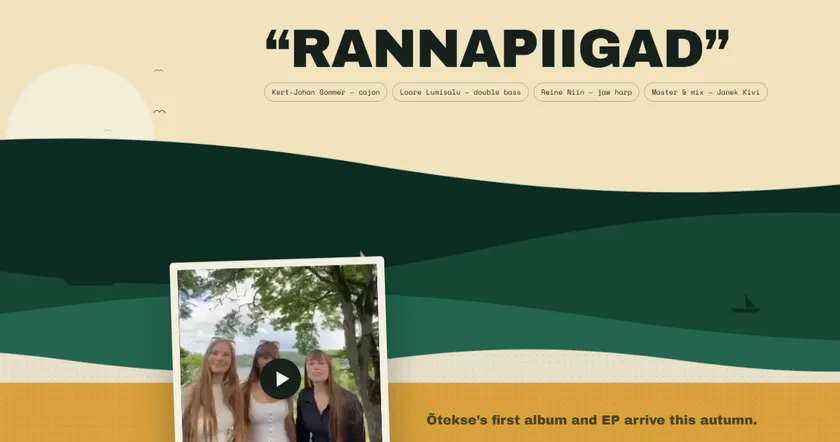
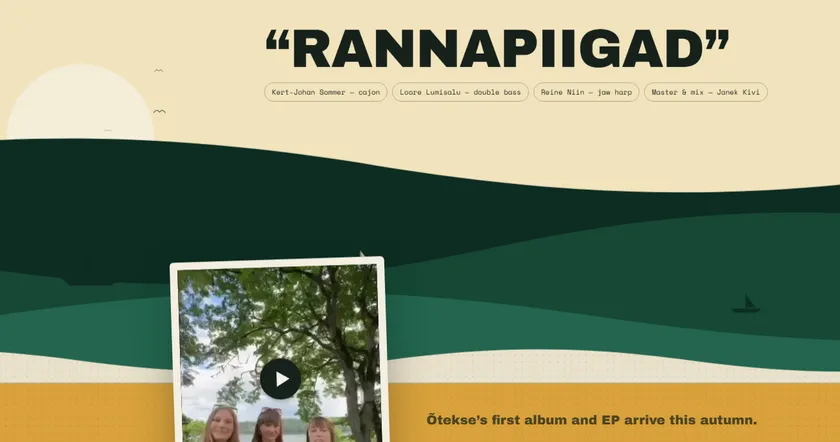
Make the About page just the timeline, and frame the video lower
About: the introduction section is gone from /about, which now shows only the
timeline. Its "AJATELG" title becomes the page's h1 and each year an h2.
AboutSection is homepage-only now, so its unused page mode is removed.

Video: the picture sits 40% of the card's height below the card's bottom edge
(was 10%), so of what does not fit about 18% of the card's height is cut at
the top and 40% at the bottom. The header card's stills are retaken.

diff --git a/src/components/about/TimelineSection.tsx b/src/components/about/TimelineSection.tsx
@@ -11,9 +11,12 @@ import styles from "./TimelineSection.module.scss";
 // pills, and the photos as tilted paper prints. Every year is open — nothing
 // collapses.
 //
+// It is the whole About page (the owner dropped the introduction that used to
+// sit above it), so its title is the page's h1 and each year an h2.
+//
 // Where it departs from the export:
-//  - The export is a whole About page. Only its timeline is used here; the
-//    band's introduction is AboutSection, directly above.
+//  - The export's header also carries an introduction and the line-up; the
+//    page shows only the timeline.
 //  - Its "LIIKUMINE" switcher is a design-review control for trying three
 //    scroll animations. The page ships the default, "Tõus", in TimelineRise.
 //  - The photos are the band's real ones — all of them, where the export
@@ -30,14 +33,14 @@ export function TimelineSection() {
     <section id="ajatelg" className={styles.section}>
       <div className={styles.head}>
         <div className={styles.overline}>— {t("overline")}</div>
-        <h2 className={styles.title}>{t("timelineTitle")}</h2>
+        <h1 className={styles.title}>{t("timelineTitle")}</h1>
       </div>
 
       <TimelineRise className={styles.years}>
         {timeline.map(({ year, entries }) => (
           <div key={year} className={styles.year}>
             <div className={styles.yearLabel}>
-              <h3 className={styles.yearNumber}>{year}</h3>
+              <h2 className={styles.yearNumber}>{year}</h2>
               <div className={styles.yearCount}>
                 {t("timelineCount", { count: entries.length })}
               </div>

diff --git a/src/components/home/AlbumVideo.module.scss b/src/components/home/AlbumVideo.module.scss
@@ -11,14 +11,14 @@
 // The whole 16:9 file, at the size where an upright clip's footage (the middle
 // 303.75 of its 960 px, 31.64%) spans the frame's width: 316.05% of the frame's
 // width, and 16:9 of that, which is 158.03% of an 8:9 frame's height. Centred
-// sideways and set 10% of the frame's height below its bottom edge (the
-// owner's framing), so of the 58% that does not fit, about 48% is cut off at
-// the top and 10% at the bottom (see AlbumVideo). `max-width: none` undoes the
+// sideways and set 40% of the frame's height below its bottom edge (the
+// owner's framing), so of the 58% that does not fit, about 18% is cut off at
+// the top and 40% at the bottom (see AlbumVideo). `max-width: none` undoes the
 // reset's 100% cap.
 .video {
   position: absolute;
   left: 50%;
-  bottom: -10%;
+  bottom: -40%;
   display: block;
   width: 316.05%;
   height: 158.03%;

diff --git a/src/components/home/AlbumVideo.tsx b/src/components/home/AlbumVideo.tsx
@@ -13,9 +13,9 @@ import styles from "./AlbumVideo.module.scss";
 // The frame is 8:9. The file is 16:9 and mixes upright phone clips, whose
 // black bars are baked into the picture, with wide landscape shots. At the
 // owner's call there are no bars: the video is drawn at the size where an
-// upright clip's own footage spans the frame's width, centred, and set a tenth
-// of the frame's height below its bottom edge, so most of what does not fit is
-// cut off at the top and a little at the bottom. Wide clips show their middle
+// upright clip's own footage spans the frame's width, centred, and set 40% of
+// the frame's height below its bottom edge, so of what does not fit a little
+// is cut off at the top and most at the bottom. Wide clips show their middle
 // third.
 //
 // That video box is about three times wider than the frame, so the browser's

diff --git a/src/components/home/AboutSection.tsx b/src/components/home/AboutSection.tsx
@@ -8,22 +8,19 @@ import styles from "./AboutSection.module.scss";
 
 type AboutSectionProps = {
   showMoreLink?: boolean;
-  asPage?: boolean;
 };
 
 export function AboutSection({
   showMoreLink = false,
-  asPage = false,
 }: AboutSectionProps) {
   const t = useTranslations("About");
-  const Title = asPage ? "h1" : "h2";
 
   return (
     <section id="meist" className={styles.section}>
       <div className={styles.inner}>
         <div className={styles.copy}>
           <div className={styles.overline}>— {t("overline")}</div>
-          <Title className={styles.title}>{t("title")}</Title>
+          <h2 className={styles.title}>{t("title")}</h2>
 
           {/* The first is open so the section never reads as empty. */}
           <DisclosureGroup>

diff --git a/src/app/[locale]/about/page.tsx b/src/app/[locale]/about/page.tsx
@@ -1,7 +1,6 @@
 import type { Metadata } from "next";
 import { notFound } from "next/navigation";
 import { getTranslations, setRequestLocale } from "next-intl/server";
-import { AboutSection } from "@/components/home/AboutSection";
 import { TimelineSection } from "@/components/about/TimelineSection";
 import { ABOUT_ENABLED } from "@/lib/about";
 import { localizedPageMetadata } from "@/lib/metadata";
@@ -32,10 +31,5 @@ export default async function AboutPage({
   const { locale } = await params;
   setRequestLocale(locale);
 
-  return (
-    <>
-      <AboutSection asPage />
-      <TimelineSection />
-    </>
-  );
+  return <TimelineSection />;
 }
